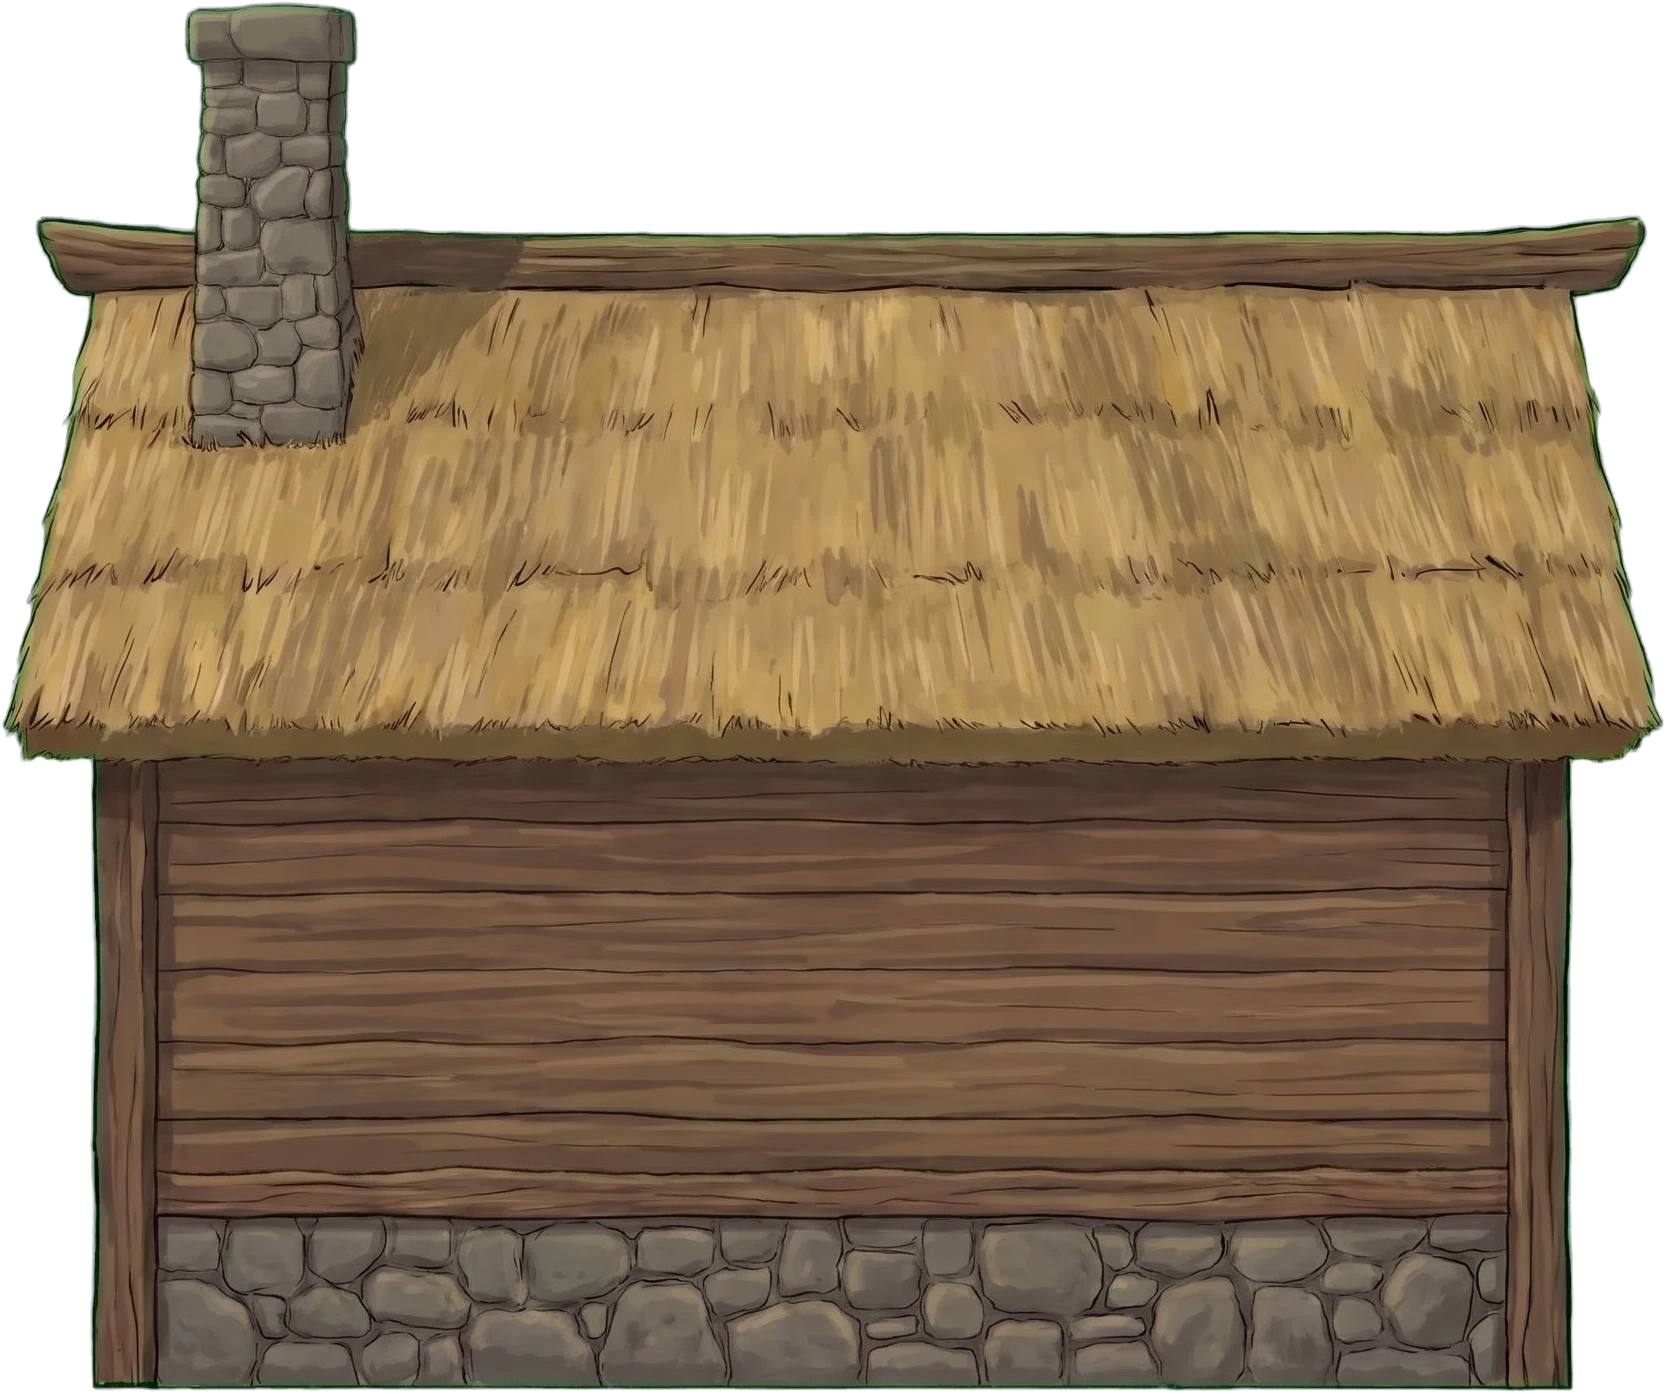
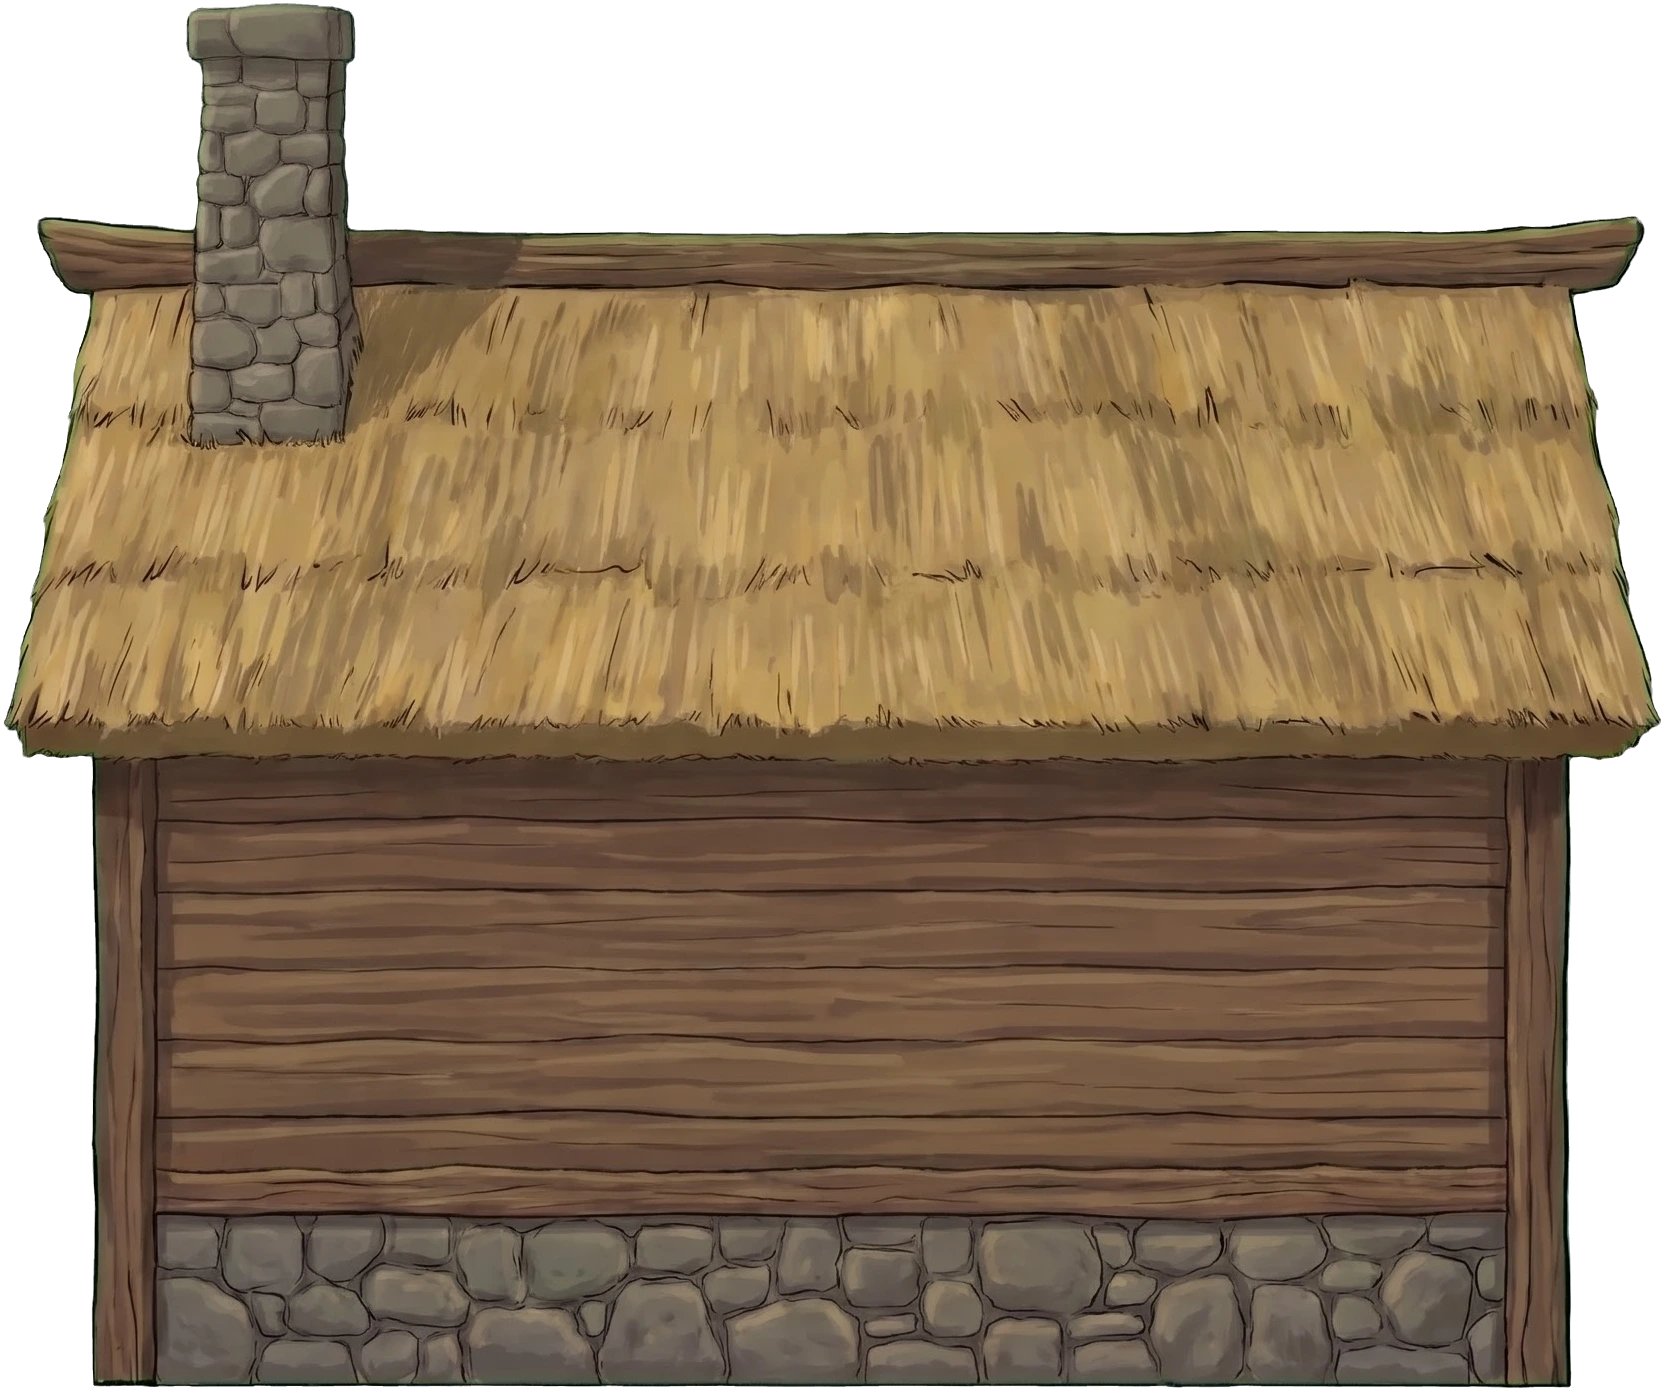
Lojas e tavernas na cidade: arte limpa e sem tiras escuras
- Integração: cada cidade tem seis prédios, alternando loja e taverna, com a frente voltada para o centro. Eles entram na colisão e no desenho; a prefeitura central continua sem desenho e sem colisão (sem arte ainda).
- Prédio que encostava em outro era pulado na roda de casas. Um ponto de ronda de selvagem saiu de (56, -24) para (60, -24), porque encostava num prédio.
- Tiras escuras: o contorno de cópia escura, escalado em torno da origem, aparecia como faixa nas quinas das faces planas. Os prédios da cidade saem sem contorno.
- Faixa verde: a chave deixava o verde do fundo nos pixels transparentes, que a suavização espalhava para dentro da figura. As artes foram refeitas com cor média nos pixels transparentes; as medidas das figuras foram atualizadas.
- Quinas: paredes e telhado usam as mesmas medidas da planta, então as arestas coincidem e o beiral cobre a junção.

Claude-Session: https://claude.ai/code/session_01CGVLTDGSSxihYWLuUwRgVi

diff --git a/confusion/web/explorar3d/mundo.js b/confusion/web/explorar3d/mundo.js
@@ -14,7 +14,7 @@ export const SINAL = { x: 6, z: 6 };         // placa na praça
 
 // Onde os selvagens rondam: fora das cidades e da praça, espalhados pelos quatro braços.
 export const PONTOS_SELVAGENS = [
-  [-24, -40], [26, -54], [56, -24], [56, 24], [-26, 34],
+  [-24, -40], [26, -54], [60, -24], [56, 24], [-26, 34],
   [26, 34], [0, 34], [-46, -26], [-40, 24], [-70, -2],
 ];
 
@@ -35,10 +35,8 @@ const POSICOES = {
   'Forte Velho': { x: -62, z: -14 }, 'Fazenda Mansa': { x: -50, z: 8 }, 'Lago Espelho': { x: -68, z: 18 },
 };
 
-// Posições das casas em volta da prefeitura (anel de 3 x 3 sem o centro), e cores de paredes.
+// Posições das casas em volta da prefeitura (anel de 3 x 3 sem o centro).
 const ANEL = [[-7, -7], [0, -7], [7, -7], [7, 0], [7, 7], [0, 7], [-7, 7], [-7, 0]];
-const CORES = ['#d9b48f', '#c9d6e3', '#e7c9a9', '#bfd8b0'];
-const TELHADOS = ['#8a4b3a', '#5b5f73', '#6e4a2f', '#7a3e3e'];
 
 // Número pseudo-aleatório determinístico em [0, 1): o mesmo mundo sai igual em todo carregamento.
 function ruido(semente) {
@@ -49,26 +47,57 @@ function ruido(semente) {
   return (h >>> 0) / 4294967296;
 }
 
+// Todos os prédios já colocados, de todas as cidades: um prédio novo não pode encostar num que já está lá.
+const COLOCADOS = [];
+const encosta = (a, b) => Math.abs(a.x - b.x) < (a.w + b.w) / 2 && Math.abs(a.z - b.z) < (a.d + b.d) / 2;
 function construirCidade(nome, regiao, i) {
   const { x: cx, z: cz } = POSICOES[nome];
-  const edificios = [{ x: cx, z: cz, w: 5, d: 4, h: 4.5, cor: '#e8d28a', telhado: '#7a3e3e', central: true, cidade: nome }];
+  // o prédio central é a prefeitura: ainda sem arte, não aparece nem bloqueia
+  const central = { x: cx, z: cz, w: 5, d: 4, central: true, cidade: nome };
+  const edificios = [central];
+  COLOCADOS.push(central);
   const inicio = Math.floor(ruido(i * 31 + 1) * ANEL.length);
-  for (let k = 0; k < 6; k++) {
-    const [ax, az] = ANEL[(inicio + k) % ANEL.length];
-    const s = i * 100 + k * 10;
-    edificios.push({
-      x: cx + ax + (ruido(s + 1) - 0.5) * 1.2,
-      z: cz + az + (ruido(s + 2) - 0.5) * 1.2,
-      w: 2.6 + ruido(s + 3) * 0.9,
-      d: 2.6 + ruido(s + 4) * 0.9,
-      h: 2.2 + ruido(s + 5) * 1.6,
-      cor: CORES[Math.floor(ruido(s + 6) * CORES.length)],
-      telhado: TELHADOS[Math.floor(ruido(s + 7) * TELHADOS.length)],
-      central: false,
-      cidade: nome,
-    });
+  let casas = 0;
+  for (let t = 0; t < ANEL.length && casas < 6; t++) {
+    const [ax, az] = ANEL[(inicio + t) % ANEL.length];
+    const tipo = (i + casas) % 2 === 0 ? 'loja' : 'taverna';
+    const predio = predioNaCidade(tipo, cx + ax, cz + az, cx, cz, nome);
+    if (COLOCADOS.some((o) => encosta(o, predio))) continue;   // esta posição do anel encosta em outro prédio: pula
+    COLOCADOS.push(predio);
+    edificios.push(predio);
+    casas += 1;
   }
   return { nome, regiao, x: cx, z: cz, edificios };
+}
+
+// ---- prédios da cidade: loja e taberna. As artes (frente, costas e lateral) ficam em assets/mundo/cidade ----
+export const ALTURA_PREDIO = 5.4;   // do chão à cumeeira: 2,1 vezes o personagem (2,55). Cabe na roda de casas da cidade.
+// Figura recortada de cada arte, em px (cada arquivo tem 4 px de margem transparente em volta da figura)
+const FIGURA = {
+  'loja-frente': [2001, 1385], 'loja-costas': [2001, 1375], 'loja-lateral': [1621, 1778],
+  'taverna-frente': [1656, 1387], 'taverna-costas': [1657, 1384], 'taverna-lateral': [1621, 1778],
+};
+export const figuraDaArte = (tipo, vista) => FIGURA[`${tipo}-${vista}`];
+// Paredes dentro do beiral, como na casa de teste: largura e profundidade (em relação ao beiral) e altura da parede.
+const PAREDE_PREDIO = { x: 0.84, z: 0.725, altura: 0.525 };
+export function predioDoTipo(tipo) {
+  const [fw, fh] = figuraDaArte(tipo, 'frente');
+  const [lw, lh] = figuraDaArte(tipo, 'lateral');
+  const B = (fw / 2) * (ALTURA_PREDIO / fh);   // meia largura da frente, com o beiral
+  const E = (lw / 2) * (ALTURA_PREDIO / lh);   // meia profundidade (o lado), com o beiral
+  return { B, E, W: B * PAREDE_PREDIO.x, D: E * PAREDE_PREDIO.z, A: ALTURA_PREDIO * PAREDE_PREDIO.altura, H: ALTURA_PREDIO };
+}
+// A frente do prédio olha para o centro da cidade, pelo eixo mais próximo: yaw 0 = +z, π = -z, π/2 = +x, -π/2 = -x.
+// A largura e a profundidade guardadas são as da caixa no chão, já girada (w no eixo x, d no eixo z).
+function predioNaCidade(tipo, x, z, cx, cz, nome) {
+  const dx = cx - x;
+  const dz = cz - z;
+  const emZ = Math.abs(dz) >= Math.abs(dx);
+  const yaw = emZ ? (dz >= 0 ? 0 : Math.PI) : (dx >= 0 ? Math.PI / 2 : -Math.PI / 2);
+  const p = predioDoTipo(tipo);
+  const meiaX = emZ ? p.W : p.D;
+  const meiaZ = emZ ? p.D : p.W;
+  return { x, z, yaw, tipo, w: 2 * meiaX, d: 2 * meiaZ, central: false, cidade: nome };
 }
 
 export const CIDADES_MUNDO = CIDADES.map((c, i) => construirCidade(c.nome, c.regiao, i));
@@ -200,10 +229,12 @@ const CAIXA_CASA_TESTE = caixaRetangular(
   CASA_TESTE.x - CASA_TESTE.largura / 2, CASA_TESTE.x + CASA_TESTE.largura / 2,
   CASA_TESTE.z - CASA_TESTE.profundidade / 2, CASA_TESTE.z + CASA_TESTE.profundidade / 2,
 );
-// Colisão: a casa de teste, a costa, árvores, pedras e o lago. As casas das cidades não bloqueiam (estão fora do mapa).
+// Colisão: a casa de teste, a costa, árvores, pedras, o lago e os prédios da cidade (loja e taberna). O prédio central
+// (prefeitura) ainda não tem arte e fica sem colisão.
 export const CAIXAS = [
   CAIXA_CASA_TESTE, ...COSTA.map(caixaDeRetangulo),
   ...ARVORES.map(caixaDeArvore), ...PEDRAS.map(caixaDePedra), ...CAIXAS_LAGO,
+  ...EDIFICIOS.filter((e) => !e.central).map((e) => caixaRetangular(e.x - e.w / 2, e.x + e.w / 2, e.z - e.d / 2, e.z + e.d / 2)),
 ];
 
 // Região de um ponto da ilha, ou null se estiver no mar.

diff --git a/confusion/web/explorar3d/mundo-3d.js b/confusion/web/explorar3d/mundo-3d.js
@@ -2,7 +2,7 @@
 // assets/mundo), pedras e lago em forma simples. A colisão vem de CAIXAS (mundo.js).
 // Chão e céu são desenhados (canvas e pintura), iguais em todo carregamento.
 import * as THREE from 'three';
-import { REGIOES, ARVORES, PEDRAS, LAGO, ESTRADAS, CASA_TESTE, regiaoDe } from './mundo.js';
+import { REGIOES, ARVORES, PEDRAS, LAGO, ESTRADAS, CASA_TESTE, EDIFICIOS, predioDoTipo, figuraDaArte, regiaoDe } from './mundo.js';
 
 export const COR_HORIZONTE = '#cfe8f7';  // névoa e horizonte na mesma cor: mar e chão somem no céu
 const COR_MORTA = '#7a7468';
@@ -315,6 +315,63 @@ function montarCasaTeste(scene, arteDe) {
   face([[-B, A, -E], [-B, H, 0], [B, H, 0], [B, A, -E]], uvCostas, matCostas);
 }
 
+// ---- prédios da cidade (loja e taberna): o mesmo volume da casa de teste, com a arte da frente, das costas e da lateral.
+// Cada face usa a sua arte pela posição no mundo: o prédio é reto e não gira com a câmera.
+const MARGEM_ARTE = 4;   // px de margem transparente em volta da figura (ver assets/mundo/cidade)
+// uv de um ponto (horiz, y) da fachada: a figura inteira ocupa a altura H; sinal -1 espelha (costas e lado direito)
+const uvDaArte = ([fw, fh], horiz, y, H, sinal) => {
+  const K = H / fh;
+  return [
+    (MARGEM_ARTE + fw / 2 + (sinal * horiz) / K) / (fw + 2 * MARGEM_ARTE),
+    1 - (MARGEM_ARTE + fh - y / K) / (fh + 2 * MARGEM_ARTE),
+  ];
+};
+function montarPredio(scene, e, arteDe, material) {
+  const { B, E, W, D, A, H } = predioDoTipo(e.tipo);
+  const textura = (vista) => {
+    const t = carregador.load(arteDe(`cidade/${e.tipo}-${vista}.webp`));
+    t.colorSpace = THREE.SRGBColorSpace;
+    return t;
+  };
+  const fF = figuraDaArte(e.tipo, 'frente');
+  const fC = figuraDaArte(e.tipo, 'costas');
+  const fL = figuraDaArte(e.tipo, 'lateral');
+  const mF = material('#ffffff', textura('frente'));
+  const mC = material('#ffffff', textura('costas'));
+  const mL = material('#ffffff', textura('lateral'));
+  const uvF = (q) => uvDaArte(fF, q[0], q[1], H, +1);
+  const uvC = (q) => uvDaArte(fC, q[0], q[1], H, -1);
+  const uvLE = (q) => uvDaArte(fL, q[2], q[1], H, +1);
+  const uvLD = (q) => uvDaArte(fL, q[2], q[1], H, -1);
+  // o prédio fica num grupo: posição e giro (a frente olha para o centro da cidade) valem para todas as faces
+  const grupo = new THREE.Group();
+  grupo.position.set(e.x, 0, e.z);
+  grupo.rotation.y = e.yaw;
+  scene.add(grupo);
+  const face = (pontos, uv, mat) => {
+    const pos = [];
+    const uvs = [];
+    for (const q of pontos) {
+      pos.push(q[0], q[1], q[2]);
+      uvs.push(...uv(q));
+    }
+    const g = new THREE.BufferGeometry();
+    g.setAttribute('position', new THREE.Float32BufferAttribute(pos, 3));
+    g.setAttribute('uv', new THREE.Float32BufferAttribute(uvs, 2));
+    g.setIndex(pontos.length === 4 ? [0, 1, 2, 0, 2, 3] : [0, 1, 2]);
+    const malha = new THREE.Mesh(g, mat);
+    grupo.add(malha);   // sem contorno: a cópia escura de uma face plana aparece como tira nas quinas
+  };
+  // paredes: frente (+z), costas (-z) e os dois lados; empenas dos lados; telhado de duas águas (frente e costas)
+  face([[-W, 0, D], [W, 0, D], [W, A, D], [-W, A, D]], uvF, mF);
+  face([[W, 0, -D], [-W, 0, -D], [-W, A, -D], [W, A, -D]], uvC, mC);
+  face([[-W, 0, -D], [-W, 0, D], [-W, A, D], [-W, A, -D]], uvLE, mL);
+  face([[W, 0, D], [W, 0, -D], [W, A, -D], [W, A, D]], uvLD, mL);
+  face([[-W, A, -E], [-W, A, E], [-W, H, 0]], uvLE, mL);
+  face([[W, A, E], [W, A, -E], [W, H, 0]], uvLD, mL);
+  face([[-B, A, E], [B, A, E], [B, H, 0], [-B, H, 0]], uvF, mF);
+  face([[-B, A, -E], [-B, H, 0], [B, H, 0], [B, A, -E]], uvC, mC);
+}
 // ---- partes do mundo ----
 function chao(scene, material) {
   for (const [nome, r] of Object.entries(REGIOES)) {
@@ -452,6 +509,7 @@ export function montarMundo(scene, { material, contorno, raiz = '' }) {
   areia(scene, material);
   estradas(scene, material);
   montarCasaTeste(scene, arteDe);
+  for (const e of EDIFICIOS) if (!e.central) montarPredio(scene, e, arteDe, material);
   lago(scene, material);
   for (const a of ARVORES) arvore(scene, material, contorno, a, arteDe);
   for (const p of PEDRAS) pedra(scene, material, contorno, p);

diff --git a/confusion/web/explorar3d/main.js b/confusion/web/explorar3d/main.js
@@ -1615,6 +1615,7 @@ window.addEventListener('resize', () => {
 // para testes automáticos: posição do personagem, câmera, localização, teleporte, batalha e time
 window.explorar3d = {
   cenaBatalha: () => cenaBat,   // depuração: a cena 3D da batalha
+  cena: () => scene,   // depuração: a cena do mapa (prédios, chão, céu)
   video: () => (videoNoctarn ? { tempo: +videoNoctarn.v.currentTime.toFixed(2), pausado: videoNoctarn.v.paused, pronto: videoNoctarn.v.readyState } : null),
   acompanhante: () => ({ visivel: acomp.malha.visible, pronto: acomp.pronto, video: acomp.arquivoVideo, celula: acomp.celula, especie: acomp.especie, x: +acomp.x.toFixed(2), z: +acomp.z.toFixed(2), trilha: trilha.length, jogador: { x: +estado.pos.x.toFixed(2), z: +estado.pos.z.toFixed(2) } }),
   jogador: () => ({ x: estado.pos.x, z: estado.pos.z, rot: estado.rot }),
